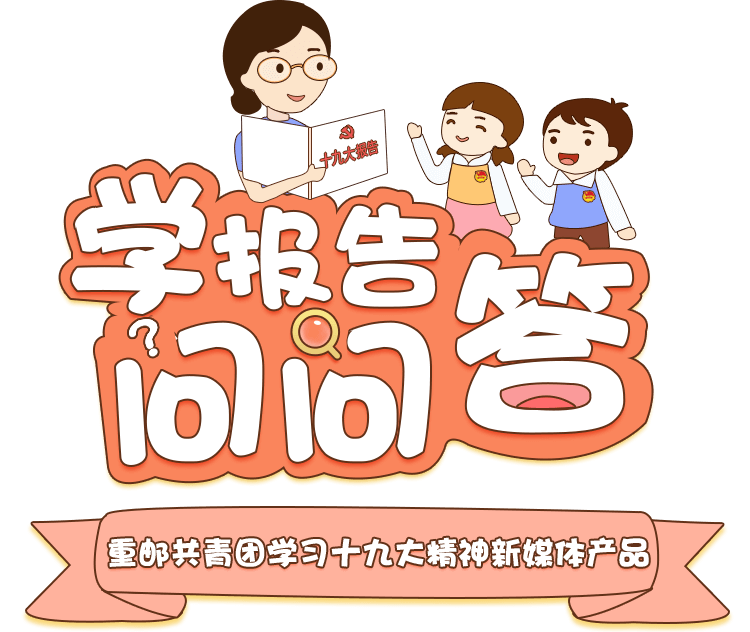
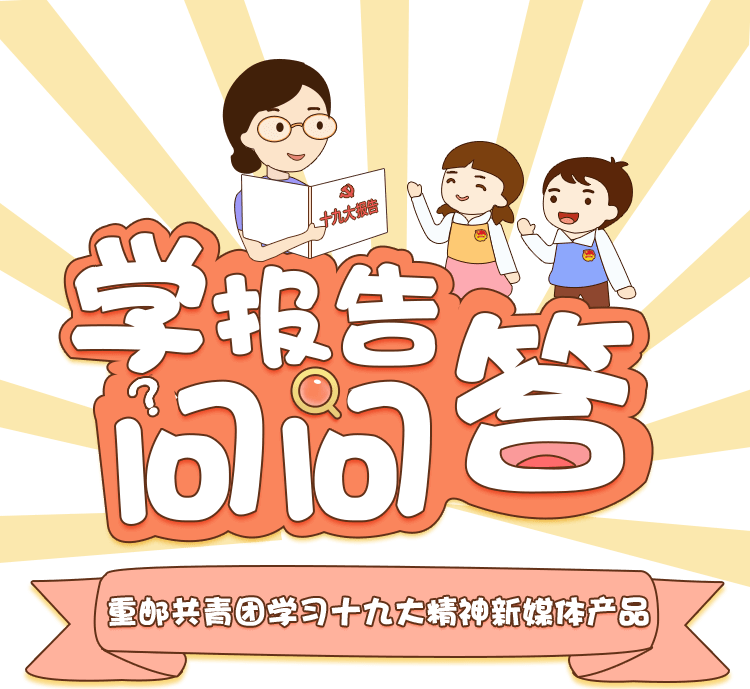
SB杨老板

diff --git a/Application/Home/View/Index/index.html b/Application/Home/View/Index/index.html
@@ -18,7 +18,9 @@
 <body>
     <div data-role="page" id="homePage">
         <img src="https://wx.idsbllp.cn/game/19thQuestionAnswer/Public/images/VoiceofYoung.png?v=1" alt="" class="logo">
-        <img src="https://wx.idsbllp.cn/game/19thQuestionAnswer/Public/images/HomePage_slogan.png?v=1" alt="" class="HomePage_slogan">
+        <div class="slogan_container">
+            <img src="https://wx.idsbllp.cn/game/19thQuestionAnswer/Public/images/HomePage_slogan.png?v=1" alt="" class="HomePage_slogan">
+        </div>
         <div class="btn_container">
             <div class="startBtn btn r_btn">
                 开始测试
@@ -28,7 +30,6 @@
                 排行榜
             </div>
         </div>
-        <p class="copyright">©红岩网校工作站</p>
     </div>
     <div data-role="page" id="testPage">
         <img src="https://wx.idsbllp.cn/game/19thQuestionAnswer/Public/images/VoiceofYoung.png?v=1" alt="" class="logo">

diff --git a/Public/css/style.less b/Public/css/style.less
@@ -45,20 +45,27 @@
   height: 100%;
   background: url("../images/homePage_back.jpg")center no-repeat;
   background-size: 100% 100%;
+  position: relative;
   .HomePage_slogan{
-    width: 94.66%;
+    width: 100%;
     display: block;
     margin: 0 auto;
   }
   .startBtn{
     margin-bottom: 5%;
   }
+  .logo{
+    float: none;
+    position: absolute;
+    top:2.4%;
+    left: 2.4%;
+  }
   .btn_container{
     *{
       display: inline-block;
     }
     text-align: center;
-    margin-top: 12.5%;
+    margin-top: 16%;
     height: 21%;
   }
 }

diff --git a/Public/css/style.css b/Public/css/style.css
@@ -40,18 +40,25 @@
   height: 100%;
   background: url("../images/homePage_back.jpg") center no-repeat;
   background-size: 100% 100%;
+  position: relative;
 }
 #homePage .HomePage_slogan {
-  width: 94.66%;
+  width: 100%;
   display: block;
   margin: 0 auto;
 }
 #homePage .startBtn {
   margin-bottom: 5%;
 }
+#homePage .logo {
+  float: none;
+  position: absolute;
+  top: 2.4%;
+  left: 2.4%;
+}
 #homePage .btn_container {
   text-align: center;
-  margin-top: 12.5%;
+  margin-top: 16%;
   height: 21%;
 }
 #homePage .btn_container * {
